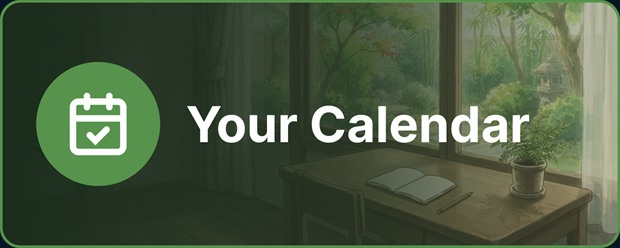
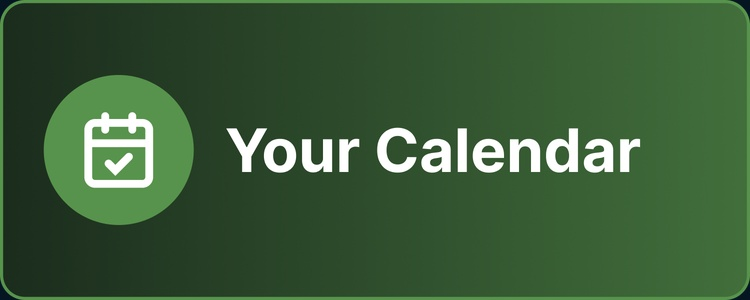
feat(discover): update gradient buttons, reclaim top margin, and increase grid spacing

diff --git a/MALPlus/Views/DiscoverPage.xaml b/MALPlus/Views/DiscoverPage.xaml
@@ -5,26 +5,18 @@
              x:Class="MALPlus.Views.DiscoverPage"
              BackgroundColor="{StaticResource EmBackground}">
 
-    <Grid RowDefinitions="Auto,*">
-        <!-- No title: the page is a grid of destinations and nothing said what the page was. The row
-             stays for the spinner, which is the only feedback the multi result tiles give while they
-             are fetching. -->
-        <Grid Grid.Row="0" ColumnDefinitions="*,Auto" Padding="16,12,16,4" ColumnSpacing="12">
-            <ActivityIndicator x:Name="HeaderSpinner" Grid.Column="1" Color="#0066FF"
-                               WidthRequest="22" HeightRequest="22" IsRunning="False" />
-        </Grid>
-
-        <ScrollView Grid.Row="1">
-            <!-- The bottom inset clears the navigation bar, which floats over this scroll rather
-                 than taking a row of its own. -->
-            <VerticalStackLayout Padding="12,8,12,96">
+    <Grid>
+        <ScrollView>
+            <!-- Content fills from the top edge with generous vertical spacing between button rows to cover the screen.
+                 The bottom inset clears the floating navigation bar. -->
+            <VerticalStackLayout Padding="10,4,10,96">
                 <!-- The buttons are the capsules from the artwork, blue canvas already erased. Six
                      explicit Auto rows on purpose: without them every tile placed at Grid.Row 1 or
                      lower falls outside the row collection and silently does not draw. -->
                 <Grid x:Name="TileGrid"
                       ColumnDefinitions="*,*"
                       RowDefinitions="Auto,Auto,Auto,Auto,Auto,Auto"
-                      ColumnSpacing="10" RowSpacing="16">
+                      ColumnSpacing="12" RowSpacing="22">
                     <controls:DiscoverTileButton Grid.Row="0" Grid.Column="0"
                                                  Source="discover_btn_search"
                                                  AutomationId="DiscoverSearch" SemanticProperties.Description="Search"
@@ -78,6 +70,12 @@
             </VerticalStackLayout>
         </ScrollView>
 
-        <controls:BottomNavBar x:Name="BottomNav" Grid.Row="1" VerticalOptions="End" />
+        <!-- Floating ActivityIndicator in top-right corner, non-blocking touch target -->
+        <ActivityIndicator x:Name="HeaderSpinner" Color="#0066FF"
+                           WidthRequest="22" HeightRequest="22" IsRunning="False"
+                           HorizontalOptions="End" VerticalOptions="Start"
+                           Margin="0,8,16,0" ZIndex="10" InputTransparent="True" />
+
+        <controls:BottomNavBar x:Name="BottomNav" VerticalOptions="End" />
     </Grid>
 </ContentPage>

diff --git a/RELEASE_NOTES.md b/RELEASE_NOTES.md
@@ -1,7 +1,8 @@
-Seamless in-app updates, instant studio search, profile dashboard, and UI performance optimizations.
+Seamless in-app updates, redesigned Discover screen, instant studio search, profile dashboard, and UI performance optimizations.
 
 ### Highlights
 - **In-App Updater Overhaul**: Native APK download with live in-dialog progress bar, automatic resume after granting install permissions, and APK cache reuse.
+- **Discover Screen Redesign**: New vibrant gradient capsule buttons, reclaimed upper screen margin, and optimized grid spacing for enhanced clarity.
 - **Instant Studios Icons**: 614 anime studio logos pre-bundled in lightweight WebP format (~540 KB) for instant offline loading with zero network delay and no 429 rate limits.
 - **Profile Experience**: Redesigned modern stats dashboard with vibrant status indicators, dedicated History tab, reactive Friends list, and cleaner layout.
 - **Performance & Fluidity**: Zero-allocation poster scroll warming, static color palette caching across popups and menus to eliminate GC pauses, and memoized disk cache paths.
